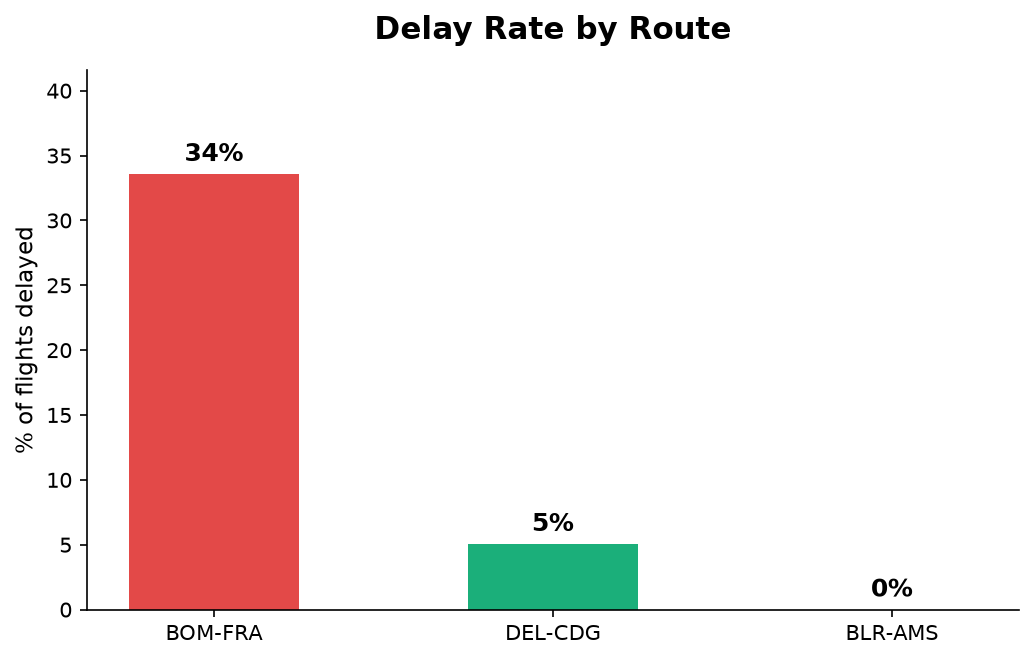
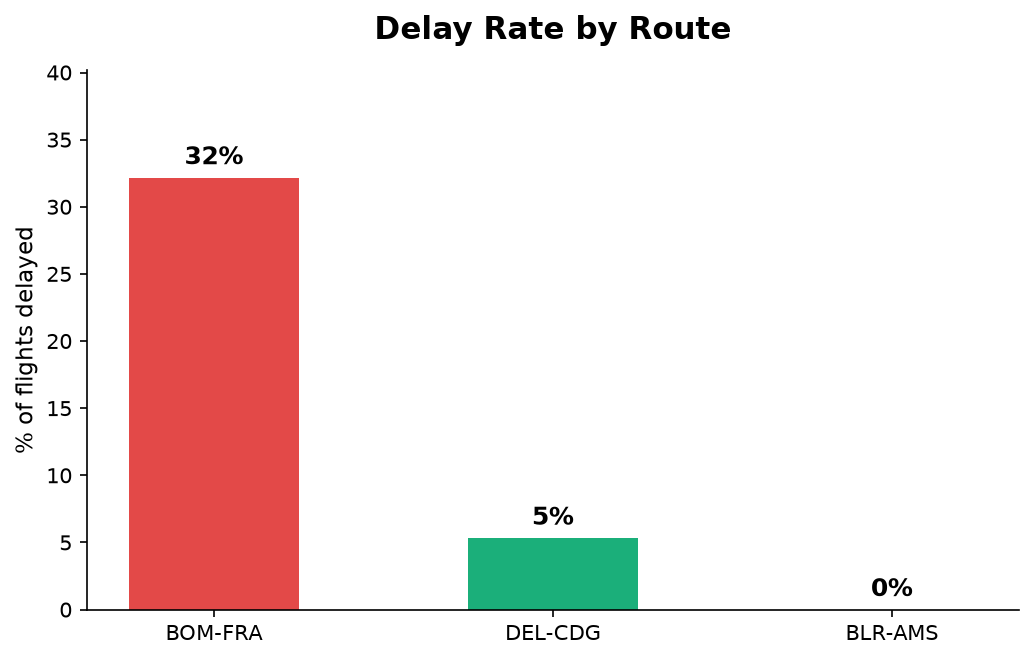
app.py changes, today's data collection

diff --git a/app.py b/app.py
@@ -314,6 +314,37 @@ div[data-testid="stToggle"] label p {{
     font-size: 13px !important;
 }}
 
+label, [data-testid="stWidgetLabel"] p, [data-testid="stWidgetLabel"] label {{
+    color: {T['text']} !important;
+}}
+
+.stSlider [data-testid="stTickBarMin"], .stSlider [data-testid="stTickBarMax"] {{
+    color: {T['text_muted']} !important;
+}}
+
+.stSlider [data-testid="stThumbValue"] {{
+    color: {T['accent']} !important;
+    background: transparent !important;
+}}
+
+div[data-baseweb="select"] * {{
+    color: {T['text']} !important;
+}}
+
+.stButton button {{
+    background: {T['card_bg']} !important;
+    color: {T['text']} !important;
+    border: 1px solid {T['card_border']} !important;
+}}
+
+.stButton button p {{
+    color: {T['text']} !important;
+}}
+
+[data-testid="stMarkdownContainer"] p {{
+    color: inherit;
+}}
+
 @media (max-width: 640px) {{
     .block-container {{ padding-left: 1rem; padding-right: 1rem; padding-top: 1rem; }}
     .rw-route-card, .rw-metric-card, .rw-panel {{ padding: 14px 16px; }}
@@ -338,7 +369,7 @@ st.markdown(
     '<div class="rw-legend">'
     f'<div class="rw-legend-item"><span class="rw-legend-dot" style="background:{T["good"]}; box-shadow:0 0 6px {T["good"]};"></span>Below the delay threshold, more reliable</div>'
     f'<div class="rw-legend-item"><span class="rw-legend-dot" style="background:{T["bad"]}; box-shadow:0 0 6px {T["bad"]};"></span>At or above 10% delayed, less reliable</div>'
-    f'<div class="rw-legend-item"><span style="font-family:JetBrains Mono; color:{T["accent"]};">n:</span> number of flights that data point is based on</div>'
+    f'<div class="rw-legend-item"><span style="font-family:JetBrains Mono; color:{T["accent"]};">n</span> = number of flights that data point is based on</div>'
     '</div>',
     unsafe_allow_html=True,
 )
